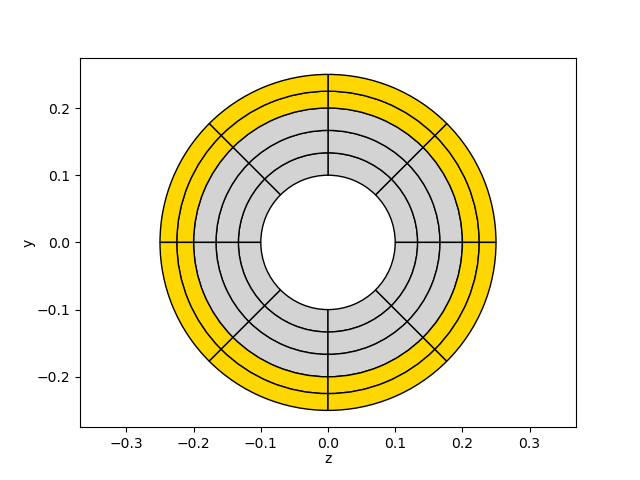
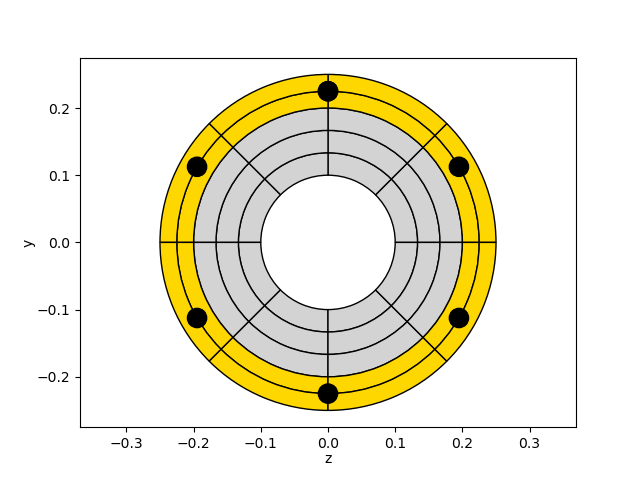
add support for the 'layer circ' option

diff --git a/src/ops_vis/ops_vis.py b/src/ops_vis/ops_vis.py
@@ -23,7 +23,6 @@ import matplotlib.pyplot as plt
 from mpl_toolkits.mplot3d import Axes3D
 from mpl_toolkits.mplot3d.art3d import Poly3DCollection
 from matplotlib.patches import Circle, Polygon, Wedge
-# from matplotlib.collections import PatchCollection
 from matplotlib.animation import FuncAnimation
 import matplotlib.tri as tri
 
@@ -2271,6 +2270,22 @@ def plot_fiber_section(fib_sec_list, fillflag=1,
                 Z = np.linspace(Iz, Jz, n_bars)
                 for zi, yi in zip(Z, Y):
                     bar = Circle((zi, yi), r, ec='k', fc='k', zorder=10)
+                    ax.add_patch(bar)
+            if item[1] == 'circ':
+                n_bars, As = item[3], item[4]
+                yC, zC, arc_radius = item[5], item[6], item[7]
+                if len(item) > 8:
+                    a0_deg, a1_deg = item[8], item[9]
+                else:
+                    a0_deg, a1_deg = 0., 360. - 360./n_bars
+
+                a0_rad, a1_rad = np.pi * a0_deg / 180., np.pi * a1_deg / 180.
+                r_bar = np.sqrt(As / np.pi)
+                thetas = np.linspace(a0_rad, a1_rad, n_bars)
+                Y = yC + arc_radius * np.cos(thetas)
+                Z = zC + arc_radius * np.sin(thetas)
+                for zi, yi in zip(Z, Y):
+                    bar = Circle((zi, yi), r_bar, ec='k', fc='k', zorder=10)
                     ax.add_patch(bar)
 
         if (item[0] == 'patch' and (item[1] == 'quad' or item[1] == 'quadr' or

diff --git a/pyExamples/demo_plot_fiber_section.py b/pyExamples/demo_plot_fiber_section.py
@@ -71,10 +71,13 @@ nc2, nr2 = 8, 2
 ri1, re1 = 0.1, 0.2
 ri2, re2 = 0.2, 0.25
 a_beg, a_end = 0., 360.
+rbar3 = 0.225
+a_beg2, a_end2 = 0., 360.
 
 fib_sec_3 = [['section', 'Fiber', 1, '-GJ', 1.0e6],
              ['patch', 'circ', 2, nc1, nr1, 0., 0., ri1, re1, a_beg, a_end],
              ['patch', 'circ', 3, nc2, nr2, 0., 0., ri2, re2, a_beg, a_end],
+             ['layer', 'circ', 4, 6, As9, 0., 0., rbar3, a_beg2, a_end2],
              ]
 
 
